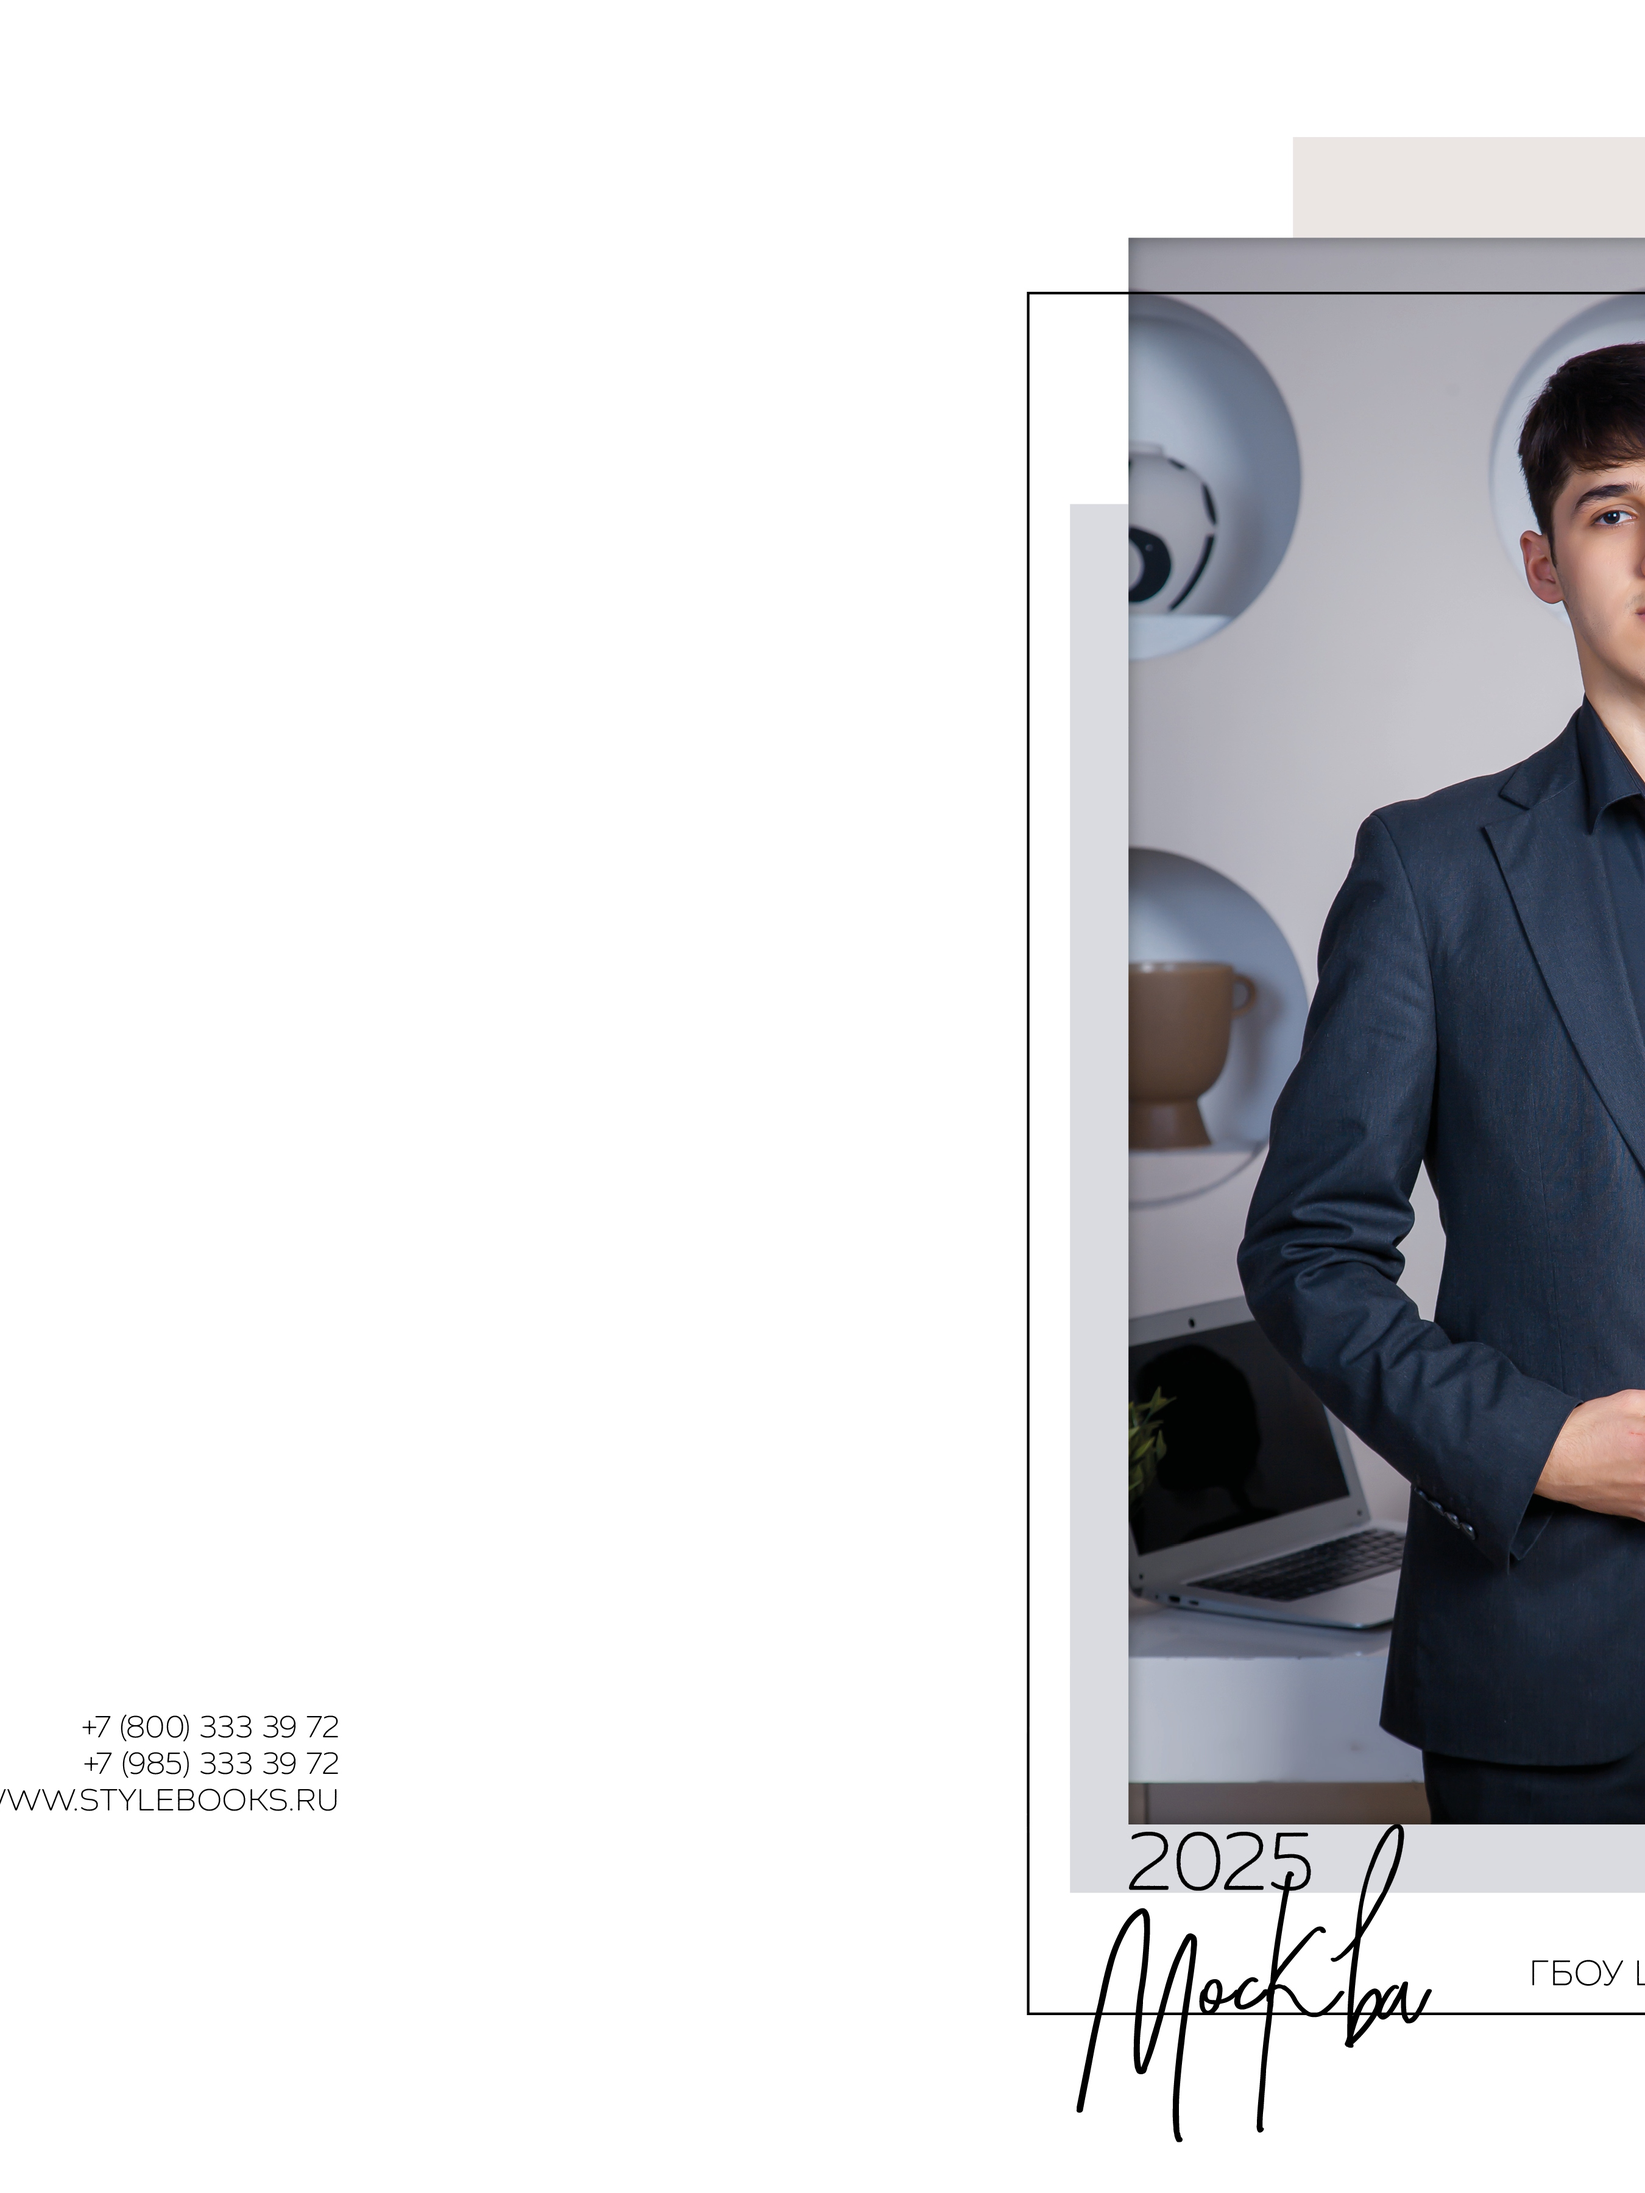
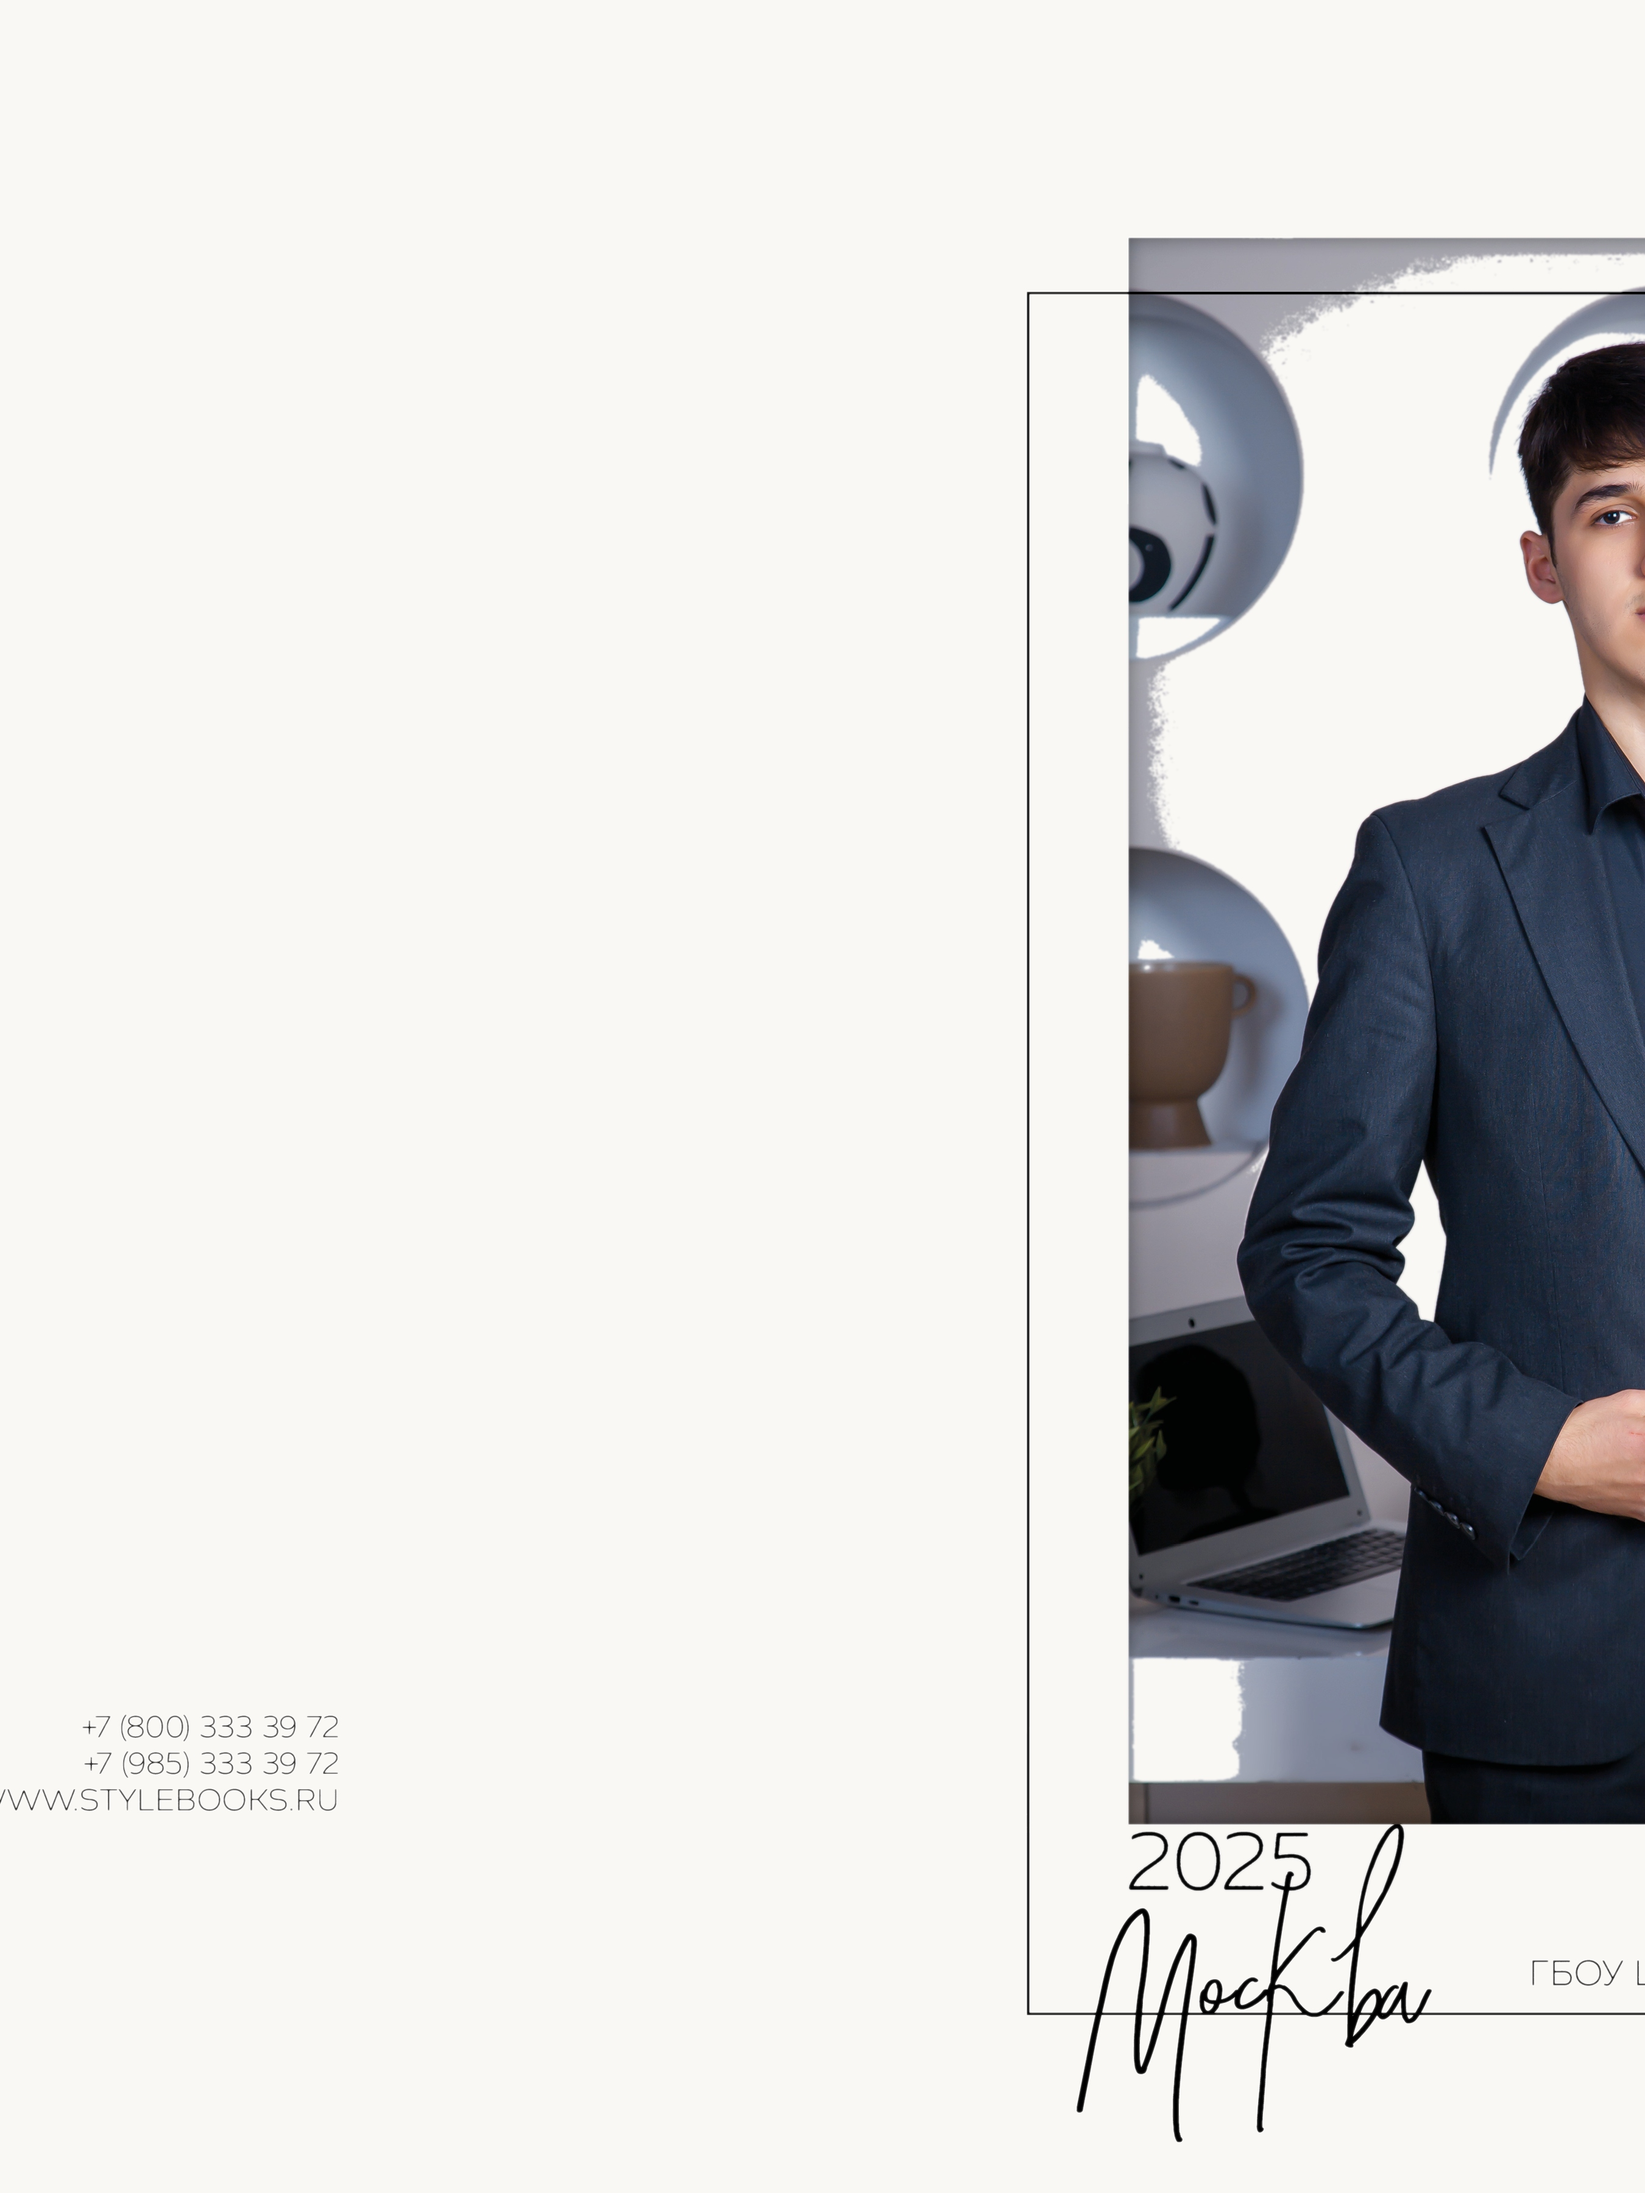
fix: remove photo background and align image container with app surface background

diff --git a/Frontend/src/pages/About.jsx b/Frontend/src/pages/About.jsx
@@ -90,9 +90,9 @@ export default function About() {
         <div className="grid grid-cols-1 md:grid-cols-4 gap-gutter">
           {CURATORS.map((c) => (
             <div key={c.key} className="group">
-              <div className="mb-6 overflow-hidden border-2 border-tertiary grayscale hover:grayscale-0 transition-all duration-500">
+              <div className="mb-6 overflow-hidden border-2 border-tertiary bg-surface-container-low grayscale hover:grayscale-0 transition-all duration-500">
                 <img
-                  className="w-full aspect-[3/4] object-cover group-hover:scale-105 transition-transform duration-700"
+                  className="w-full aspect-[3/4] object-cover group-hover:scale-105 transition-transform duration-700 block"
                   src={c.image}
                   alt=""
                   aria-hidden="true"
